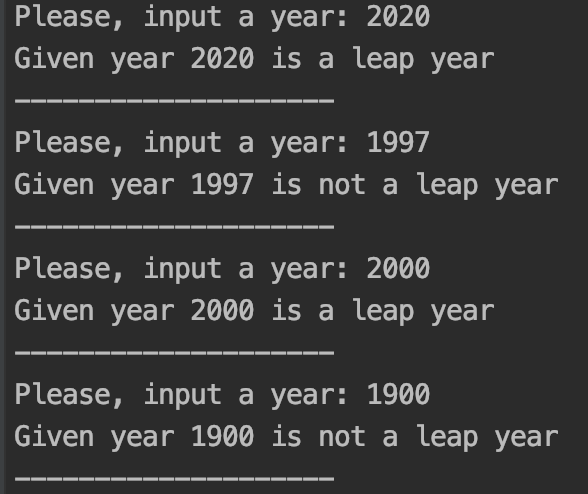
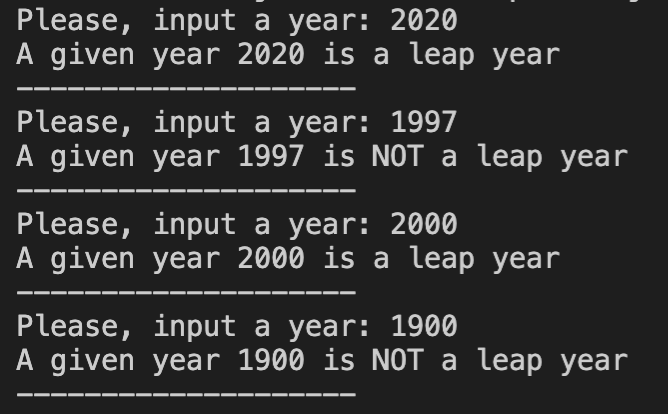
feat: screenshot file changed

Changed region(s): [[0.0, 0.0, 0.949, 1.0]]

diff --git a/en/leap-year/index.html b/en/leap-year/index.html
@@ -79,13 +79,13 @@
             if year % 100 == 0:
 				# checking whether the provided year is evenly divisibly by 400
                 if year % 400 == 0:
-                    print(&#039;Given year {} is a leap year&#039;.format(year))
+                    print(&#039;A given year {} is a leap year&#039;.format(year))
                 else:
-                    print(&#039;Given year {} is NOT a leap year&#039;.format(year))
+                    print(&#039;A given year {} is NOT a leap year&#039;.format(year))
             else:
-                print(&#039;Given year {} is a leap year&#039;.format(year))
+                print(&#039;A given year {} is a leap year&#039;.format(year))
         else:
-            print(&#039;Given year {} is NOT a leap year&#039;.format(year))
+            print(&#039;A given year {} is NOT a leap year&#039;.format(year))
 		
 		# just printing dashes in order to seperate results in the console
         print(&#039;--------------------&#039;)

diff --git a/examples/leap-year/soln.py b/examples/leap-year/soln.py
@@ -12,13 +12,13 @@ def main():
             if year % 100 == 0:
 				# checking whether the provided year is evenly divisibly by 400
                 if year % 400 == 0:
-                    print('Given year {} is a leap year'.format(year))
+                    print('A given year {} is a leap year'.format(year))
                 else:
-                    print('Given year {} is NOT a leap year'.format(year))
+                    print('A given year {} is NOT a leap year'.format(year))
             else:
-                print('Given year {} is a leap year'.format(year))
+                print('A given year {} is a leap year'.format(year))
         else:
-            print('Given year {} is NOT a leap year'.format(year))
+            print('A given year {} is NOT a leap year'.format(year))
 		
 		# just printing dashes in order to seperate results in the console
         print('--------------------')
